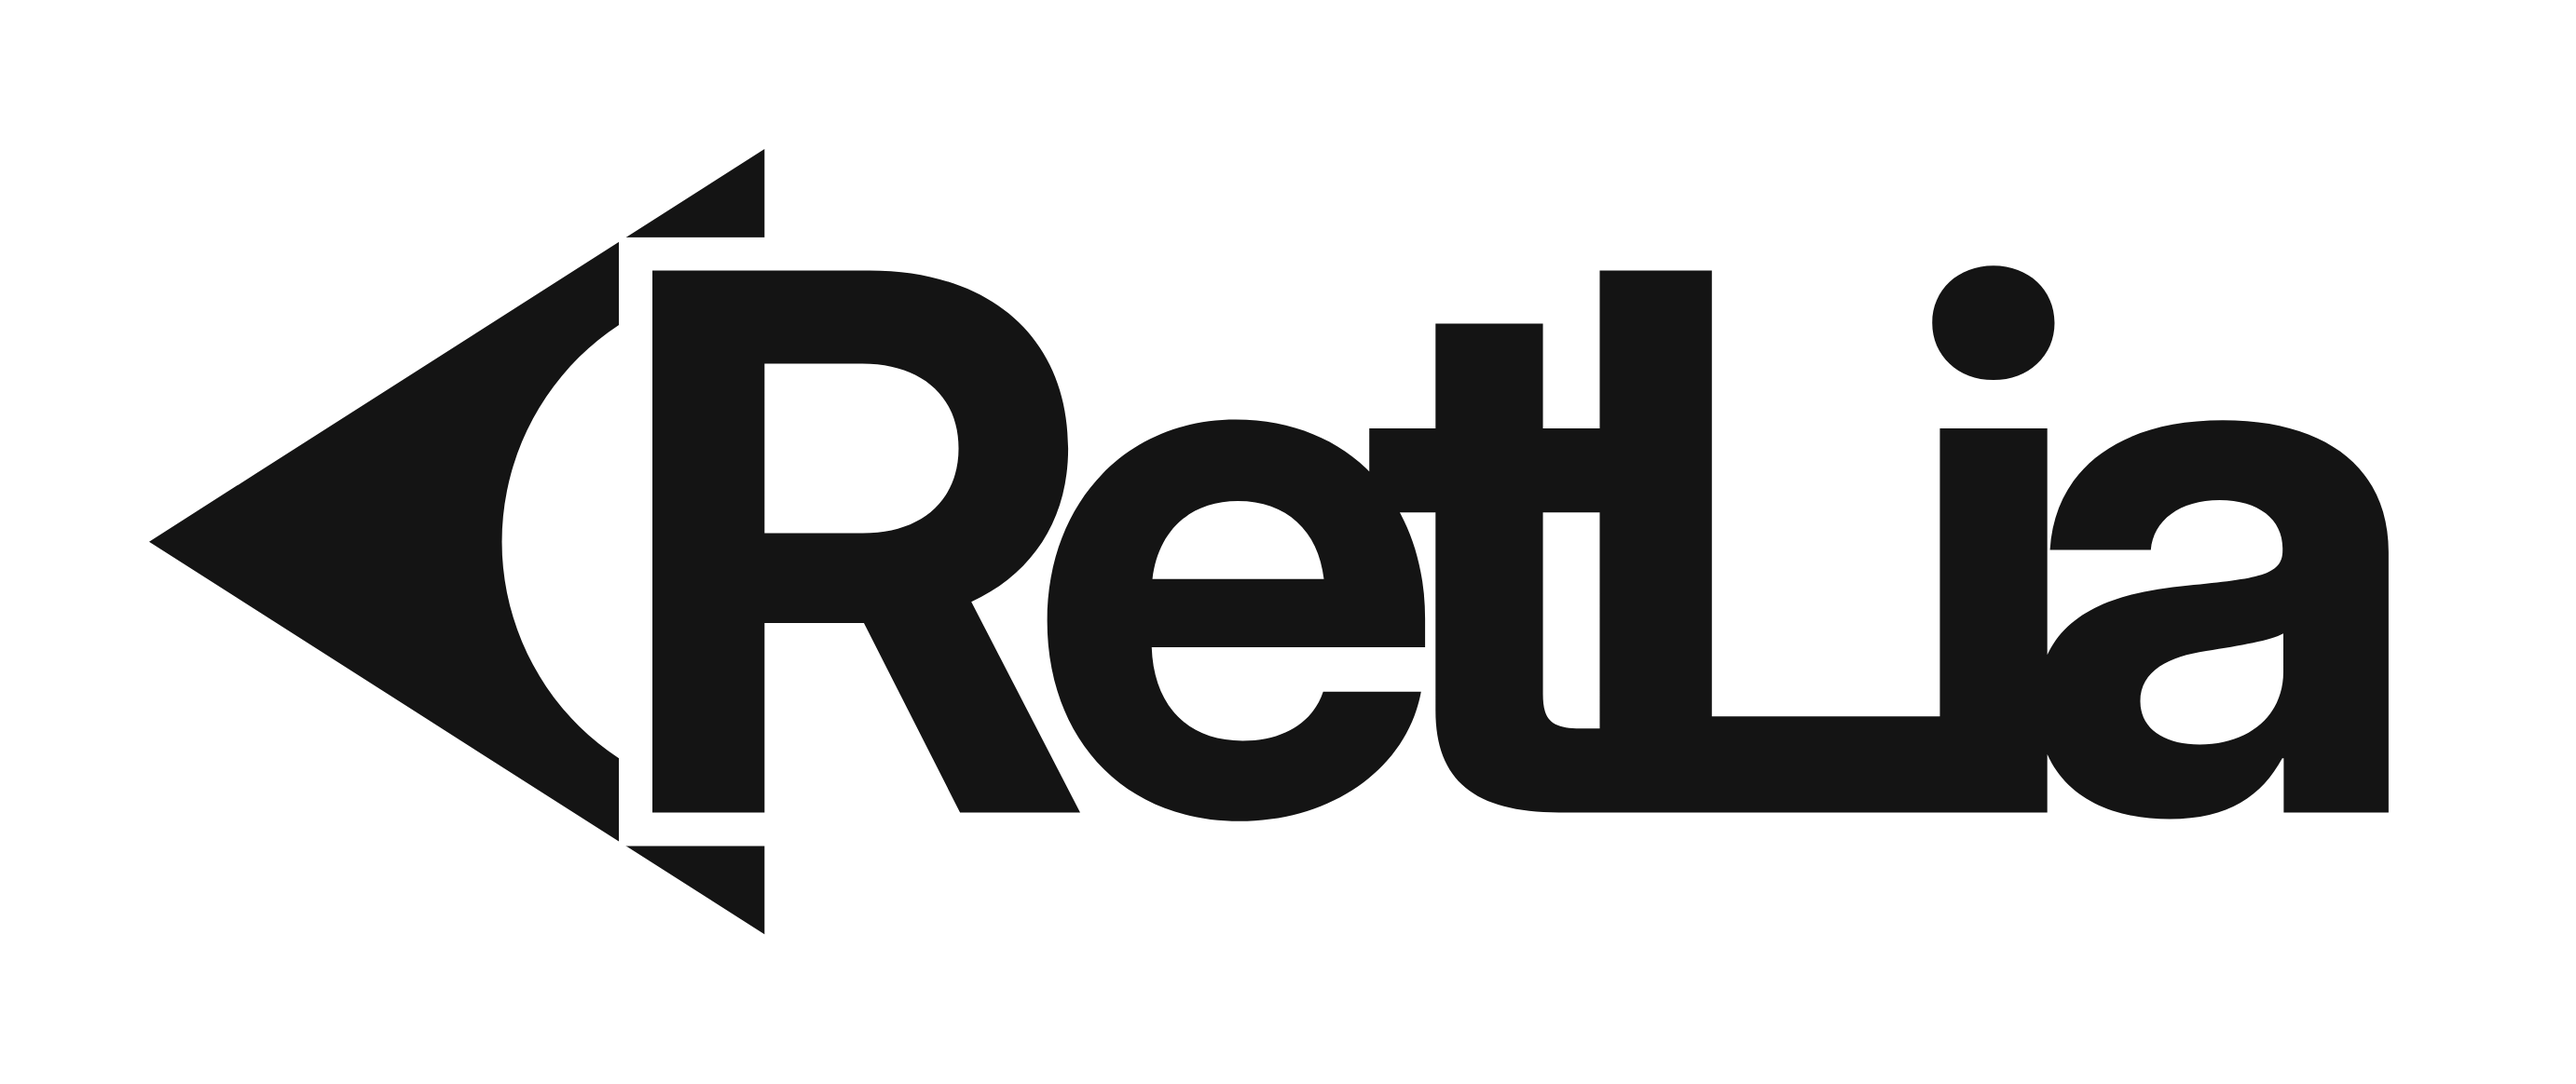
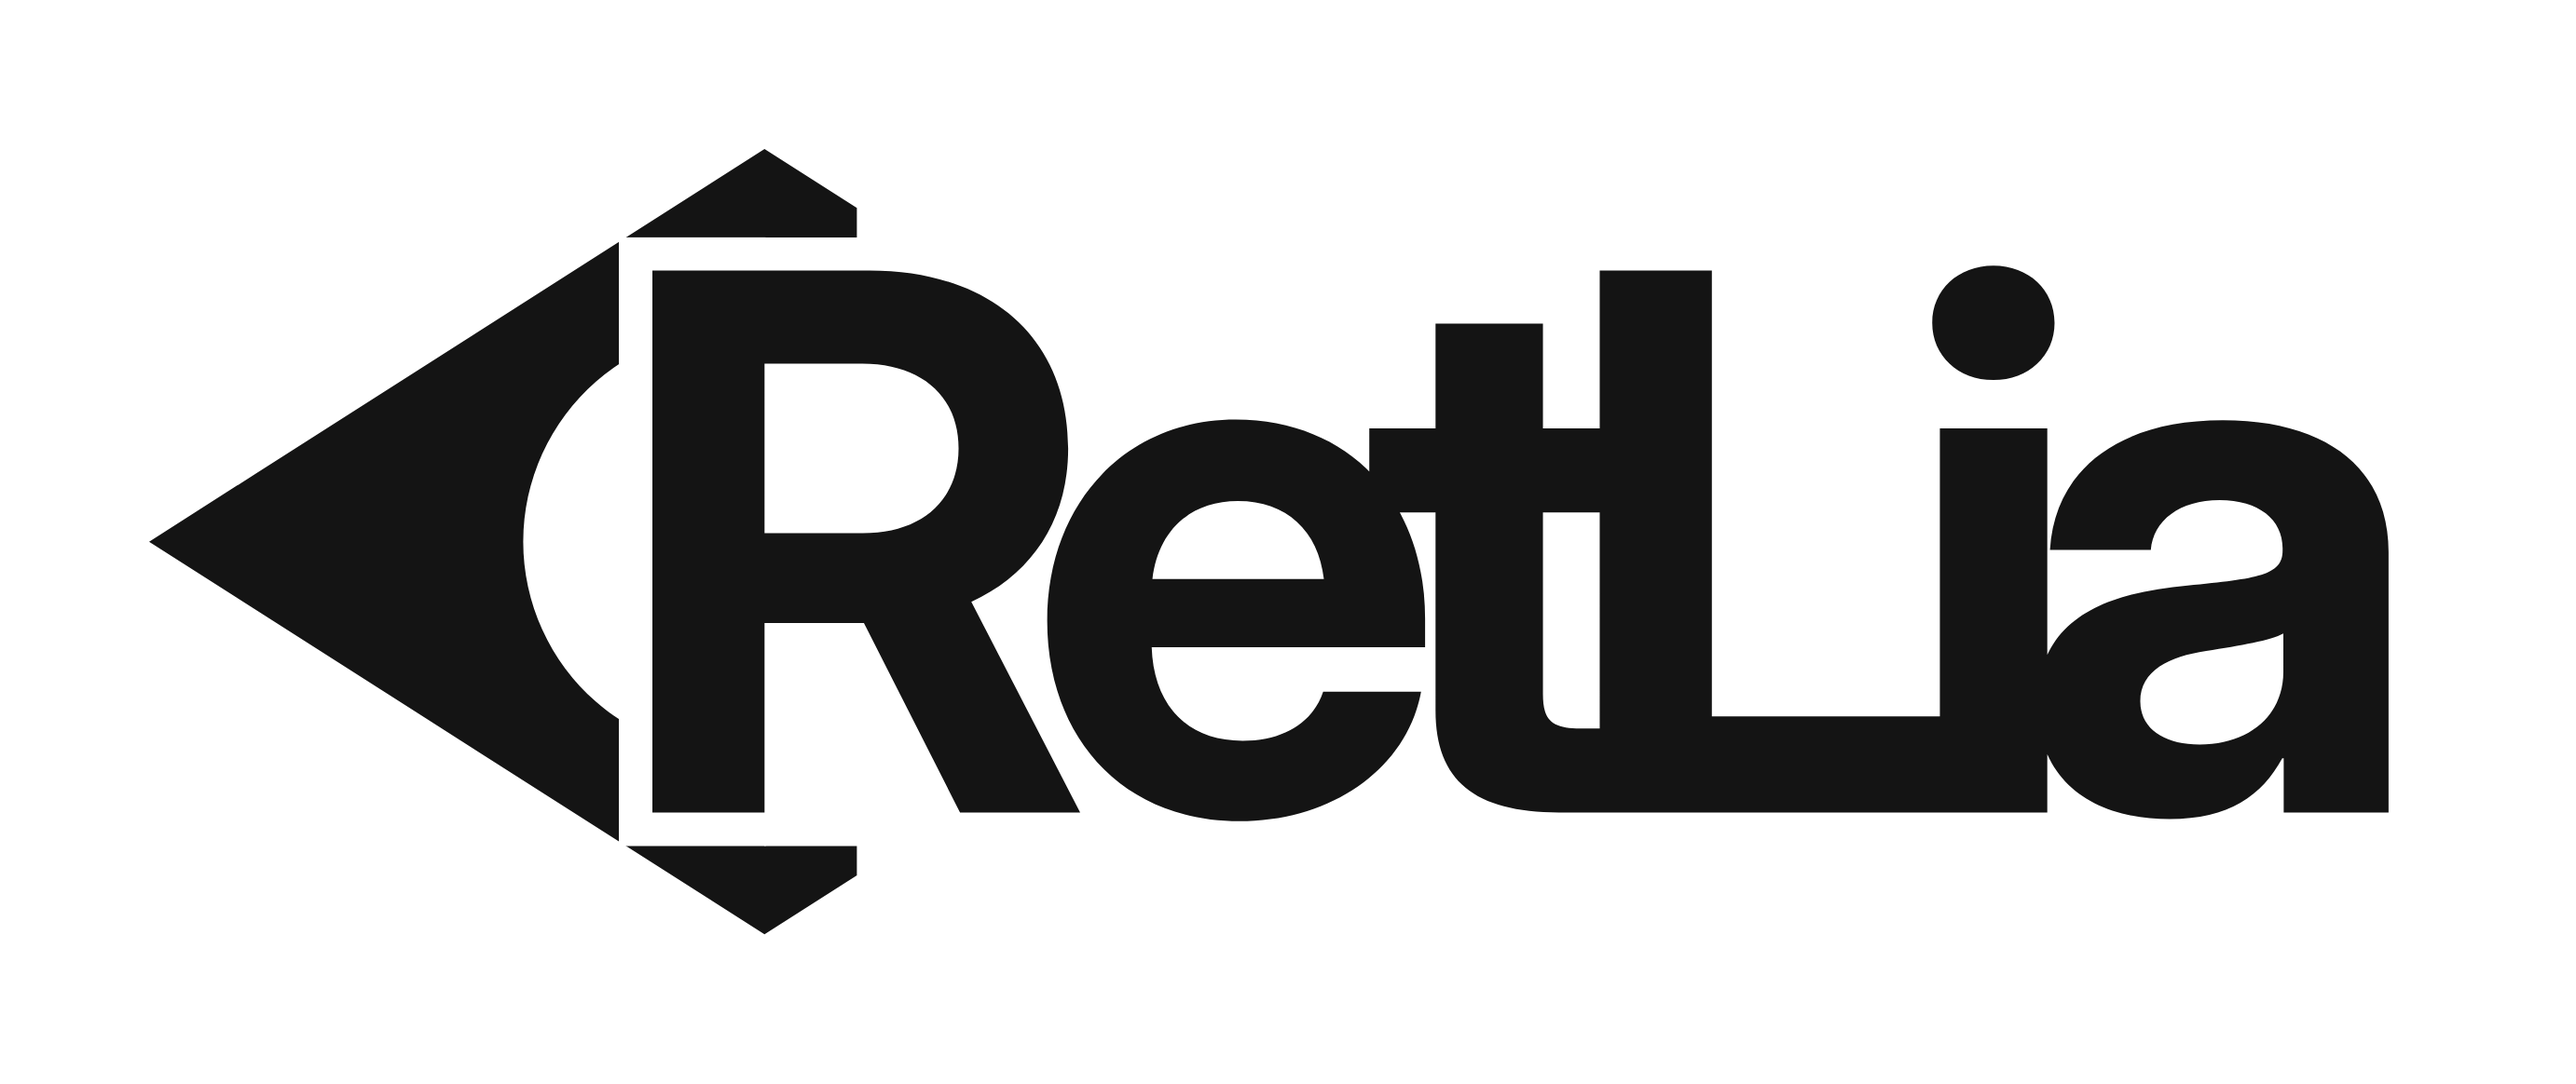
RetLia lateral: smaller globe sliver and a hint of the lozenge's far slope above/below the R
Claude-Session: https://claude.ai/code/session_01S4SgoPNwAJLDoX8PJdvnWV

diff --git a/brand/retlia/gerar.py b/brand/retlia/gerar.py
@@ -107,19 +107,25 @@ def lateral(dark=False):
     tx=flat-lsb-stem
     # bola: mesmo raio da bandeira, deslocada para o lado aparente;
     # só uma fração pequena aparece à esquerda do R
-    R=(H/2)*3.5/5.3
+    R=(H/2)*3.5/5.3*0.82         # bola um pouco menor que a da bandeira
     r_left=tx+lsb-border
     cx=r_left-R*0.45+R
     dy=math.sqrt(R*R-(flat-cx)**2)
-    sym=(f"M{flat:.2f} {top:.2f}L{x0:.2f} {cy:.2f}L{flat:.2f} {top+H:.2f}"
-         f"L{flat:.2f} {cy+dy:.2f}A{R:.2f} {R:.2f} 0 1 1 {flat:.2f} {cy-dy:.2f}Z")
+    # um pouquinho da descida do losango, só acima e abaixo do R — tudo num contorno só
+    slope=(H/2)/W; e=W*0.15
+    band_top=base_y-CAP-border; band_bot=base_y+border
+    sym=(f"M{flat:.2f} {top:.2f}L{flat+e:.2f} {top+e*slope:.2f}L{flat+e:.2f} {band_top:.2f}"
+         f"L{flat:.2f} {band_top:.2f}L{flat:.2f} {cy-dy:.2f}"
+         f"A{R:.2f} {R:.2f} 0 1 0 {flat:.2f} {cy+dy:.2f}"
+         f"L{flat:.2f} {band_bot:.2f}L{flat+e:.2f} {band_bot:.2f}L{flat+e:.2f} {top+H-e*slope:.2f}"
+         f"L{flat:.2f} {top+H:.2f}L{x0:.2f} {cy:.2f}Z")
     t,endx=text_path(BOLD,"RetLia",SIZE,tx,base_y,TRACK,KERN)
     w=endx+pad; h=H+2*pad
     return (f'<svg xmlns="http://www.w3.org/2000/svg" viewBox="0 0 {w:.0f} {h:.0f}">'
             f'<rect width="100%" height="100%" fill="{paper}"/>'
             f'<path d="{sym}" fill="{ink}"/>'
             # borda branca: recorte reto em volta da haste do R, quinas vivas
-            f'<rect x="{r_left:.2f}" y="{base_y-CAP-border:.2f}" width="{flat+border-r_left:.2f}" height="{CAP+2*border:.2f}" fill="{paper}"/>'
+            f'<rect x="{r_left:.2f}" y="{base_y-CAP-border:.2f}" width="{flat+0.3-r_left:.2f}" height="{CAP+2*border:.2f}" fill="{paper}"/>'
             f'<path d="{t}" fill="{ink}"/></svg>')
 
 open(OUT+"retlia-lateral.svg","w").write(lateral())
